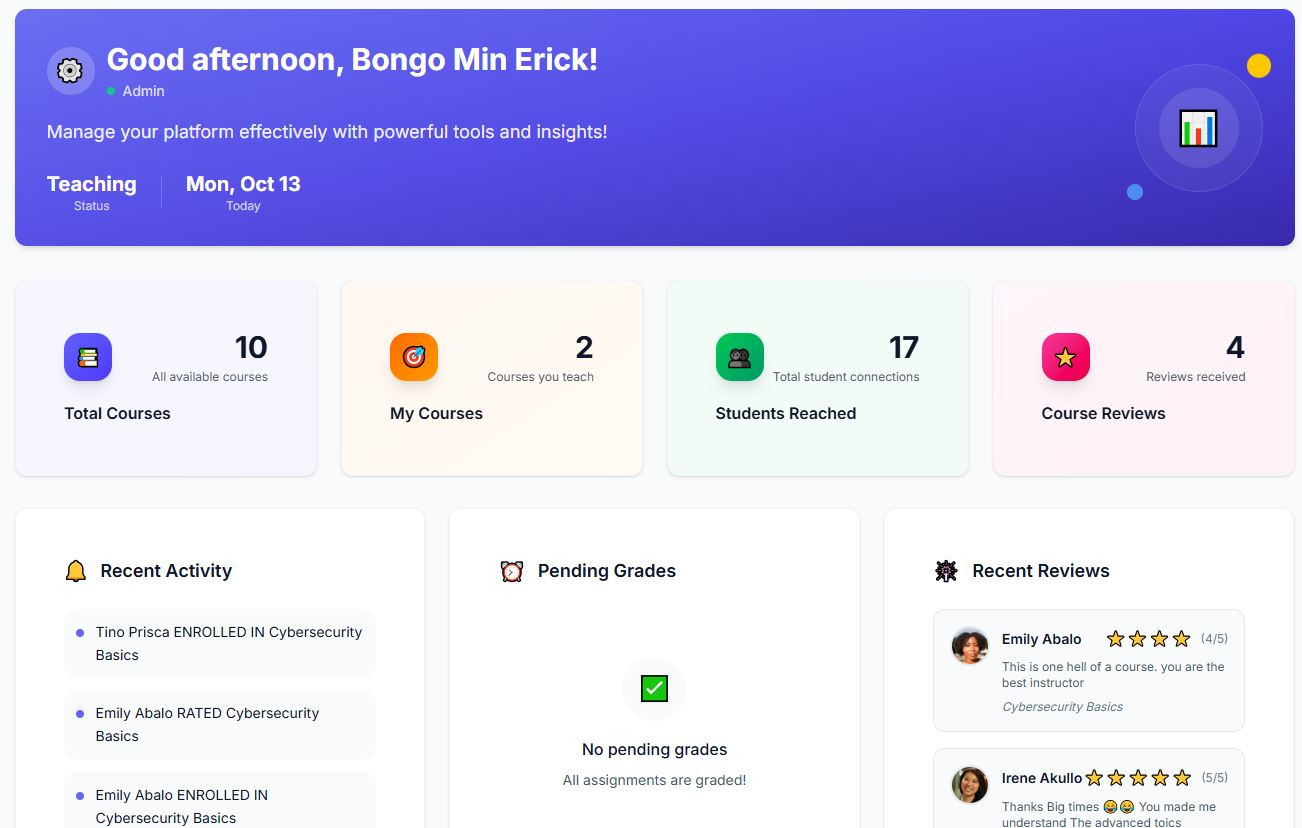
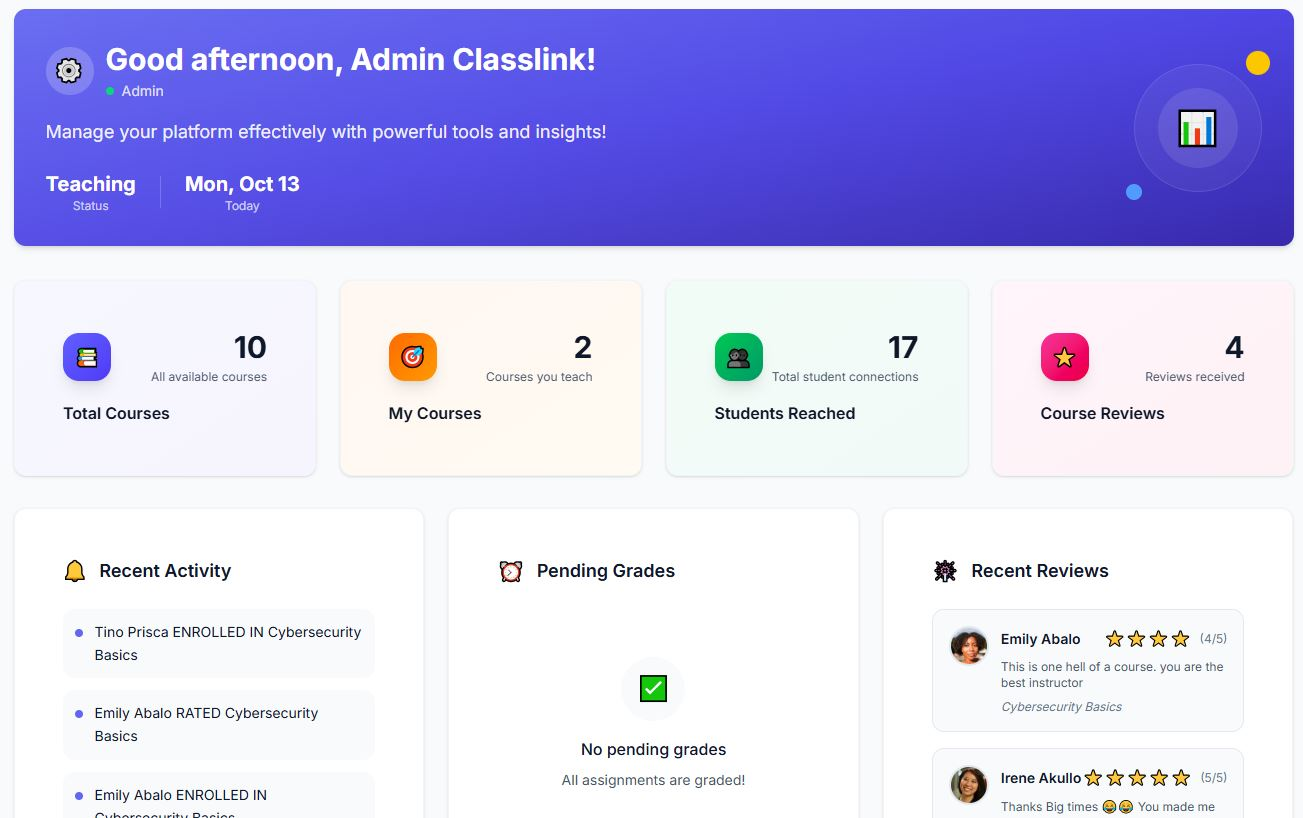
changes

diff --git a/index.html b/index.html
@@ -114,7 +114,7 @@
                 <div class="demo-header">Demo Access</div>
                 <div class="demo-field">
                   <span class="field-label">Email</span>
-                  <span class="field-value">admin@acesmovers.com</span>
+                  <span class="field-value">admin@am.com</span>
                 </div>
                 <div class="demo-field">
                   <span class="field-label">Password</span>
@@ -153,7 +153,7 @@
                 <div class="demo-header">Demo Access</div>
                 <div class="demo-field">
                   <span class="field-label">Email</span>
-                  <span class="field-value">admin@example.com</span>
+                  <span class="field-value">admin@cc.com</span>
                 </div>
                 <div class="demo-field">
                   <span class="field-label">Password</span>
@@ -190,7 +190,7 @@
                 <div class="demo-header">Demo Access</div>
                 <div class="demo-field">
                   <span class="field-label">Email</span>
-                  <span class="field-value">admin@natours.io</span>
+                  <span class="field-value">admin@qm.io</span>
                 </div>
                 <div class="demo-field">
                   <span class="field-label">Password</span>
@@ -228,7 +228,7 @@
                 <div class="demo-header">Demo Access</div>
                 <div class="demo-field">
                   <span class="field-label">Email</span>
-                  <span class="field-value">admin@natours.io</span>
+                  <span class="field-value">admin@na.io</span>
                 </div>
                 <div class="demo-field">
                   <span class="field-label">Password</span>
